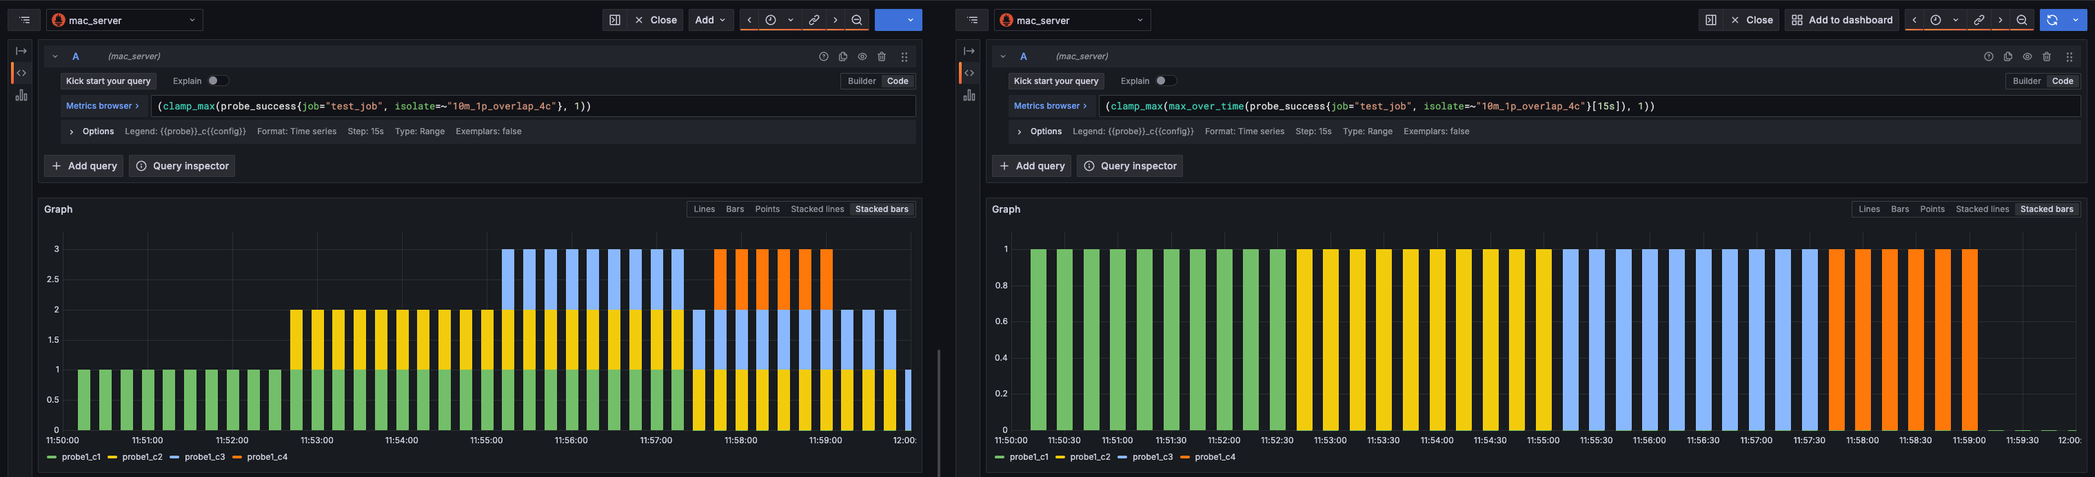
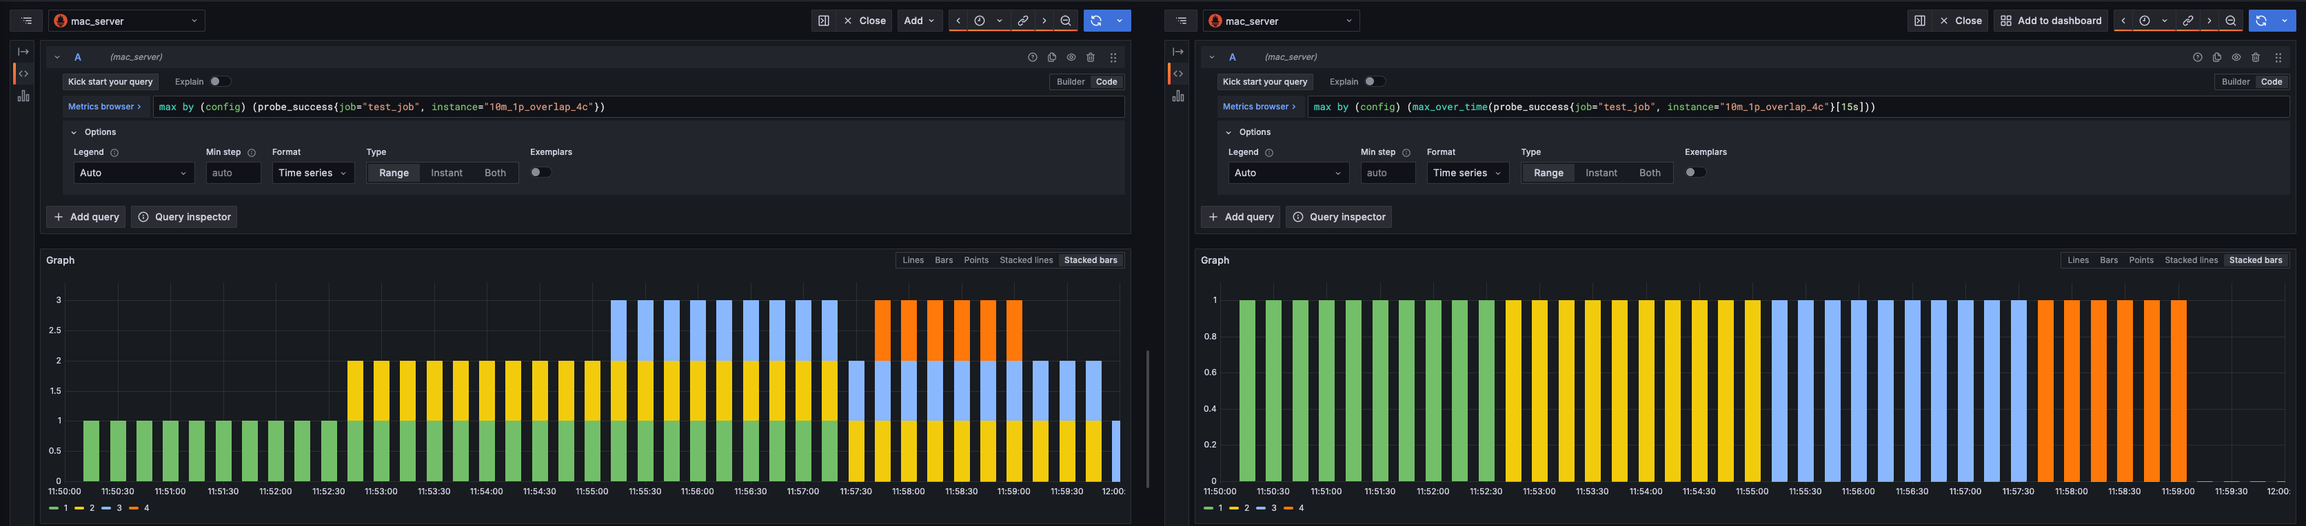
fix: updating uptime.md

diff --git a/docs/uptime/uptime.md b/docs/uptime/uptime.md
@@ -15,7 +15,7 @@ If uptime has any degree of inaccuracy, it can lead to a false sense of security
 
 When we consider all of these use cases, we have to cater for an accurate uptime metric for as little as a minute up to one year. This is a **huge** range of time periods and we need to be able to accurately calculate uptime for all of them.
 
-## A naive calculation
+## A simple calculation
 
 We calculate uptime as the percentage of successful time points in the requested time range that return a positive result. A simple way to express uptime is as follows:
 
@@ -40,7 +40,7 @@ Uptime = (3 successful time points / 4 total time points) * 100 = 75%
 The above calculation is a naive way to calculate uptime and doesn't take into account the nuance and multi-layered architecture of how we run checks and store data. The two big variables that we need to consider are:
 
 1. When does a time point start and end? How many probes reported a result for that time point?
-    - In an ideal world, if you had a probe running a check every 15 seconds they would each report their results at precisely the interval time. e.g. 12:00:15, 12:00:30, 12:00:45. However, in reality, probes won't always report their results at the same time. One probe might report at 12:00:15 but the second probe might report at 12:00:16. It could be as late as 12:00:29 or even 12:00:30, which would now be considered a new time point. Time point 1 would only have two probe execution results and time point 2 would have three (or possibly four...) probe execution results.
+    - In an ideal world, if you had a probe running a check every 15 seconds they would each report their results at precisely the interval time. e.g. 12:00:15, 12:00:30, 12:00:45. However, in reality, probes won't always report their results at the same time. One probe might report at 12:00:15 but the second probe might report at 12:00:16. It could be as late as 12:00:29 or even 12:00:30, which would now be considered a new time point. Time point 1 would only have two probe execution samples and time point 2 would have three (or possibly four...) probe execution samples.
 2. How large is the time period we are querying and how often is the check executing? Consider the following tables in how extreme the execution number can vary depending on the time period, check frequency and number of probes.
 
 | Time range | Check frequency | Number of probes | Executions  |
@@ -68,24 +68,13 @@ The above calculation is a naive way to calculate uptime and doesn't take into a
 
 4. It is not guaranteed that every check's results will end up in Mimir. The agent uses the HTTP remote write method and that is subject to the fickleness of the internet so some samples may be unintenionally dropped and go unreported. This is a comparatively small number but it is worth noting and will have a more magnifying effect at smaller time ranges.
 
-## A consideration for visualising uptime
-
-When we visualize uptime, we need to consider how we present the data to the user. We have two main ways of visualizing uptime:
-
-1. **Single stat panel**: It is a single number that represents the uptime percentage for the given time range. It is the most straightforward way to present the data but it doesn't give the user any insight into how that number was derived.
-
-2. **Graph**: It shows the underlying data that contributes to calculating the uptime percentage and correlates with the mental model of how Synthetic Monitoring operates: a plot point = a Synthetic Monitoring check.
-
-It is more complex to understand but gives the user a more in-depth view of how their endpoints were performing at any given time.
-
-
 ## How we collect and query data
 
 ![](./images/sm-architecture.png)
 
 [A more detailed explanation of the Synthetic Monitoring architecture in our on-call training. (Grafana Labs internal-only)](https://docs.google.com/presentation/d/1jWuv2VwVFIsdyXq4JQMlhmM6txHXLyHImYpnl50V5XQ/edit#slide=id.g308ff111cb5_0_35).
 
-Our architecture is multi-layered with many separate services. Please read the material above for an in-depth guide to how we collect and publish data. The most relevant part when considering uptime is: **we have multiple probes (which are effectively SM Agents) that run checks at regular intervals and report metric results to a Grafana Cloud Mimir instance and log results to a Grafana Cloud Loki instance.**
+Our architecture is multi-layered with many separate services. Please read the material above for an in-depth guide to how we collect and publish data. The most relevant part when considering uptime is: **we have multiple probes (which are effectively SM Agents) that run checks at regular intervals and report metric results to a Grafana Cloud Mimir instance and publishes a check execution's logs to a Grafana Cloud Loki instance.**
 
 Our agents report two time series metrics which are directly related to uptime:
 1. `probe_success` is a [Prometheus gauge metric](https://prometheus.io/docs/concepts/metric_types/#gauge). It can only have a value of 0 or 1. 0 represents an execution failure and 1 represents an execution success.
@@ -95,62 +84,68 @@ Our agents report two time series metrics which are directly related to uptime:
 
 Within the Synthetic Monitoring App we query the instance's default Cloud Mimir datasource using PromQL to calculate uptime.
 
-## How could we calculate uptime?
-
-There are two approaches we could take to calculating uptime:
-1. 
-
-
-
 ## How we calculate uptime with PromQL
 
 Taking into account all of the above, our uptime calculation is the following:
+
+Utilizing Mimir's `range_query` endpoint the expression is:
 
 ```
 max by () (max_over_time(probe_success{job="$job", instance="$instance"}[$frequencyInSeconds]))
 ```
 
-With the additional options:
+We also provide the range from the Grafana time picker and where appropriate we might set a `maxDataPoints` parameter to be as high as possible (8000 or so has proven effective) to increase the fidelity of the data when looking at large time periods.
 
-```
-maxDataPoints: 8000
-minInterval: $frequencyInSeconds
-```
-
-To explain the individual parts of the query, starting from the innermost part:
+To explain the individual parts of the query expression, starting from the innermost part:
 
 ### probe_success{job="$job", instance="$instance"}
 
-`probe_success` is a [Prometheus gauge metric](https://prometheus.io/docs/concepts/metric_types/#gauge) reported by each of our probes. It can only have a value of 0 or 1. 0 represents a failure and 1 represents a success. We add `job` and `instance` label filters as these two combined are how we uniquely identify a check. `probe` and `config_version` labels are also available on this metric but are not explicitly used in the uptime calculation. It is worth noting they exist on the metric because if we modify the base query we can end up with very different results depending on the scenario _[See the example below](#what-happens-if-we-remove-the-max_over_time-aggregation-from-the-query)_.
+`probe_success` is a [Prometheus gauge metric](https://prometheus.io/docs/concepts/metric_types/#gauge) reported by each of our probes. It can only have a value of 0 or 1, representing failure and success. We add `job` and `instance` label filters as these two combined are how we uniquely identify a check. `probe` and `config_version` labels are also available on this metric but are not explicitly used in the uptime calculation. It is worth noting they exist on the metric for two reasons:
+1. we want to collect all the probe samples, so don't want to discriminate against any of them.
+2. if we modify the base query we can end up with very different results depending on the scenario because of the config_version_[See the example below](#what-happens-if-we-remove-the-max_over_time-aggregation-from-the-query)_.
 
 ### max_over_time({{_metric_}}[$frequencyInSeconds])
 
 `max_over_time` is a [Prometheus aggregation function](https://prometheus.io/docs/prometheus/latest/querying/functions/#aggregation_over_time) that returns the maximum value of a metric over a given time range, in this case a check's frequency in seconds: `$frequencyInSeconds`.
 
-We use (`$frequencyInSeconds`) to determine what the 'look back' time should be (which gives us a 'time point'). For example, if the check is running every 15 seconds, the step would be 15 seconds. If the check is running every minute, the step would be 60 seconds.
+We use (`$frequencyInSeconds`) to determine what range-vector to use (e.g the 'look back' time) which gives us a 'time point'. For example, if the check is running every 15 seconds, the range-vector would be 15 seconds. If the check is running every minute, the range-vector would be 60 seconds.
 
 This function gives us two benefits in particular, one explicit and one implicit:
 
-1. __explicit__: we are telling Prometheus what the 'look-back' value is and what we consider a time point. Essentially, 'evaluate the entire time range in blocks of $frequencyInSeconds' and return the max value (e.g. 1 if it is successful) for each block. This allows groups of probes to report their results at any point during the time point and be considered a single point in time.
-2. __implicit__: this turns off Prometheus' assumed continuity of metrics. If we didn't use this function, Prometheus would assume that the metric is continuous and that there are no gaps in the data. This is not the case and often acts as a horrible assumption creating inaccurate results. _[See the example below](#what-happens-if-we-remove-the-max_over_time-aggregation-from-the-query)_
-
-## sum(...)
-
-Because of the `probe` label, we can have multiple results for a single time point. We sum all of the results for all probes given a time point to get a single result.
+1. __explicit__: we are telling Prometheus what range-vector to use so what we consider a time point. Essentially, 'evaluate the entire time range in blocks of $frequencyInSeconds' and return the max value for each block (e.g. 1 if it is successful). This allows the probes to report their results at any time during the start and end of the time point and be considered a single point in time.
+2. __implicit__: this removes Prometheus' assumed continuity of metrics (the value for the `--query.lookback-delta` which is provided [as a flag when the server is set-up](https://prometheus.io/docs/prometheus/latest/command-line/prometheus/#flags)). If we didn't use this function, Prometheus would assume that the metric is continuous and that there are no gaps in the data for 5 minutes after it stops reporting. This is not the case and often acts as a bad assumption leading to inaccurate results. _[See the example below](#what-happens-if-we-remove-the-max_over_time-aggregation-from-the-query)_
 
 ## max by() (...)
 
-Each assessment of uptime in a time point is a binary result: it is either 1 (success) or 0 (failure). In the previous step we sum all of the probe results for a given time point and in this step we 'clamp' the result to a maximum of 1. We only care if a time point is successful or not. If a time point has 3 successful probes, we still only want to count it as 1 successful time point (individual successes are represented by our reachability metric).
+Each assessment of uptime for a time point is a binary result: it is either 1 (success) or 0 (failure). In the previous step we gathered all of the unique samples for a given time point (usually by probe, but could also include differing configurations when the check is updated) and in this step we pick out the max value and discard the rest. We only care if a time point has a single success. If a time point has 3 successful samples, we still only want to count it as 1 successful time point (individual successes are represented by our reachability metric).
+
+## Visualising uptime
+
+When we visualize uptime, we need to consider how we present the data to the user. We have two main ways of visualizing uptime:
+
+**Single stat panel**: It is a single number that represents the uptime percentage for the given time range. It is the most straightforward way to present the data but it doesn't give the user any insight into how that number was derived.
+
+When displaying uptime as a single stat there are two important aspects to note:
+  1. we set the `maxDataPoints` option as high as possible to increase its fidelity for large time ranges.
+  2. We perform a client-side Grafana transformation to reduce each datapoint to a single value, it is essentially: `count successes / count total data points * 100` so it is viualised as a percentage.
+
+**Graph**: It shows the underlying data that contributes to calculating the uptime percentage and correlates with the mental model of how Synthetic Monitoring operates: a plot point = a Synthetic Monitoring check.
+
+It gives the user an in-depth view of how their checks were performing at any given time. We do no transformations on the data and it is presented as-is in a Grafana graph panel.
 
 ## Testing strategy
 
-We have a library where we can create a base set of Prometheus metrics across different common scenarios. This allows us to test our PromQL queries where we know precisely what the expected result should be as we have access to the underlying data to confirm without using PromQL to extract it (_a snake eating its own tail comes to mind..._). We can then modify the base query to see how it behaves in different scenarios and across different time periods and evaluate the results.
+We have a library where we can create a base set of Prometheus metrics across different common scenarios. This allows us to test our PromQL queries where we know precisely what the expected result should be as we have access to the underlying data used to populate the database.
+
+A core problem with datasets in Prometheus is you can only use PromQL to extract it. This means the only way to validate if our PromQL queries are correct is by writing more PromQL... (_a snake eating its own tail comes to mind_).
+
+When we know beforehand what the data is we've provided to Prometheus, we can validate the result using other means which aren't PromQL. We can now continually modify our PromQL queries with a goal in mind to see how it behaves in different scenarios and across different time periods and evaluate the results and assess what is best suited for our needs.
 
 There are two base-level assumptions each of the following scenarios has been run through:
 
 1. **The control group (in-phase)**: Every probe reports its result at exactly the check interval time (e.g. 12:00:15, 12:00:30, 12:00:45)
     - This is to simulate the ideal scenario where probes report their results at the same time and where we 'know' what the expected result should be to compare against.
-2. **The real-world group (out-of-phase)**: Every entry has a 1% chance to 'blip' and delay its reporting by up to 33% of the check's frequency time, which knocks onto the following time point.
+2. **The real-world group (out-of-phase)**: Every entry has a 1% chance to 'jitter' and delay its reporting by up to 33% of the check's frequency time, which knocks onto the following time point.
     - This is to _somewhat_ simulate the real-world scenario where probes don't report their results at the same time. It makes evaluation of what the expected result should be more difficult but using the control group as a comparison we can see how the query behaves in a more realistic scenario.
 
 There are four time periods that we have tested our uptime query against:
@@ -235,9 +230,9 @@ This means the uptime query has been assessed **240** times in total: 2 base ass
 | 20p_random        | 100%   | 100%   | 100%   | 99.96% |
 | 20p_shared_random | 100%   | 100%   | 99.42% | 99.34% |
 
-#### 'Accuracy' in the blip group.
+#### 'Accuracy' in the jitter group.
 
-_This is a more difficult metric to measure and interpret as the expected result is not precisely known but from extrapolation of the control group, and what we know a blip is likely to do we can see how the query behaves with more realistic real-life data._
+_This is a more difficult metric to measure and interpret as the expected result is not precisely known but from extrapolation of the control group, and what we know a jitter is likely to do we can see how the query behaves with more realistic real-life data._
 
 | Scenario          | 10m     | 3h      | 6M      | 1y      |
 |-------------------|---------|---------|---------| ------- |
@@ -262,7 +257,7 @@ __In phase probes__. A graph showing 40 time points, 20 of which are successful 
 When reduced in the stat panel, this shows a 50% uptime.
 
 ![](./images/out_of_phase_probes.png)
-__Out of phase probes__. A graph showing 40 time points, 30 of which have a successful result and 10 of which are failures. This is the more 'realistic' scenario with real world reporting because of the interaction between how agents start/restart and also how agents communicate with k6-runners for k6-powered checks. It is very likely for the probes to begin running the checks at different times ('out-of-phase') and increasingly become out of sync. Frankly, this is a feature rather than a bug as it ensures monitoring coverage is more comprehensive and a client's endpoints aren't receiving a barrage of requests at exactly the same time.
+__Out of phase probes__. A graph showing 40 time points, 30 of which have a successful result and 10 of which are failures. This is the more 'realistic' scenario with real world reporting because of the interaction between how agents start/restart and also how agents communicate with k6-runners for k6-powered checks. It is very likely for the probes to begin running the checks at different times ('out-of-phase') and increasingly become out of sync with 'jitters'. Frankly, this is a feature rather than a bug as it ensures monitoring coverage is more comprehensive and a client's endpoints aren't receiving a barrage of requests at exactly the same time.
 
 When reduced in the stat panel, this shows a 75% uptime -- which from the point of view of measuring uptime is correct. Across the 40 time points, 30 are successful and 10 are failures despite the heavy-skewing of certain time points reporting multiple successes versus some only reporting one or two successes. Because our testing strategy deliberately introduces this random aspect to it, it is impossible to accurately predict what the expected result should be (without evaluating the data in minute detail) but we are confident that the query is behaving as expected.
 
@@ -270,7 +265,7 @@ When reduced in the stat panel, this shows a 75% uptime -- which from the point 
 
 ![](./images/20p_accuracy.png)
 
-Uptime v3 showing 49.7% uptime for the `20p_shared_random` scenario. The underlying data has a 50% uptime so the result is only off by 0.3%, which is very impressive for a single query quickly evaluating 10,500,000 individual data points (525,000 minutes in a year x 20 probe results).
+Uptime v3 showing 49.7% uptime for the `20p_shared_random` scenario. The underlying data has a 50% uptime so the result is only off by 0.3%, which is very impressive for a single query quickly evaluating 10,500,000 individual data points (525,000 minutes in a year x 20 probe samples).
 
 Honestly, no idea - Prometheus Black magic is the only answer I can provide. I have gone over the whole testing process from start to finish with a fine tooth comb to understand if there is any fault in the underlying data that is generated, the backfill process and uploading to Prometheus but it is all correct.
 
@@ -288,28 +283,49 @@ Yes. They are saved in our 'Synthetics Dashboards reference' Google Sheet in the
 
 ### Why do we use range queries instead of instant queries for generating a single uptime metric?
 
+The answer to this is multi-faceted.
+
 Because we have the ability to transform the data on the client side within our Grafana plugin, we are able to use the more powerful and fully featured range queries that Prometheus provides. Despite we often show uptime as a reduced single stat panel, having the ability to show the underlying data in a graph how that single stat is derived is very powerful and helps users visualize it in a more meaningful way.
 
 A limitation we bypass using range queries is Mimir's 768-hour (32 days) time range limit for instant queries, meaning we can support more of the long-range use cases outlined at the top of this document.
 
-### Why don't we use the `probe_all_success` summary metrics?
-
-We use these metrics for alerting currently (subject to being reviewed in-depth). Previously we had been using this metric with the `increase` function to calculate uptime. Compare the results when utilizing our original V1 calculation to our V3 calculation in our simplest scenario, `1p_overlap` over 10 minutes:
-
-![](./images/v1_v3_comparison.png)
-
-The v1 query (bottom) shows both an incorrect single stat (94.9%) and a graph that shows a gradual increase in uptime at the beginning of the time period and a gradual decline at the end. Neither of these are correct and are a misleading interpretation of the underlying data. It is impossible to have a gradual slope in uptime: it is either a successful time point or it is not.
-
 ### What happens if we remove the `max_over_time` aggregation from the query?
 
-Prometheus has a feature where it has 'assumed continuity' of metrics. This means that if a metric is not reported for a given time point, Prometheus will assume that the metric is the same as the previous time point for the next five minutes before it stops reporting. For Synthetic Monitoring, this is a terrible assumption to make and can have a detrimental effect on the accuracy of our uptime calculation.
+Prometheus has a feature where it has 'assumed continuity' of metrics. The continuinity time is provided by the value for the feature flag `--query.lookback-delta` which is set [when the server is set-up](https://prometheus.io/docs/prometheus/latest/command-line/prometheus/#flags). This means that if a metric is not reported for a given time point, Prometheus will assume that the metric is the same as the previous time point for the length of time as decided by the feature flag before it stops reporting. For Synthetic Monitoring, this is a bad assumption to make and can have a detrimental effect on the accuracy of our uptime calculation.
 
-The most likely scenario for a metric to stop reporting results is when a check's configuration has been altered. This could be a change in frequency, the number of probes or the check's definition of uptime itself. The `config_version` changes to a nanosecond unix timestamp when the check's configuration changes and is the most likely time that uptime would be affected (i.e. accidentally introducing a flaw in their uptime definition).
+A likely scenario for collecting false positives would be down to user error when updating uptime definitions. Even if the newly configured check immediately starts reporting errors, they would be masked for five minutes because the previous `config_version` would be reporting its last known value (likely to be success) for the following five minutes.
 
 ![](./images/without_aggregation.png)
 
-In the example above, on the left is the query `(clamp_max(probe_success{job="$job", instance="$instance"}, 1))` versus `(clamp_max(max_over_time(probe_success{job="$job", instance="$instance"}[$frequencyInSeconds]), 1))` on the right. We can see every time point is considered successful in the left graph because of the assumed continuity of metrics and how `probe_success` results now overlap, even though it is impossible in our architecture. Turning off continuity of metrics is a must for our uptime calculation.
+In the example above, on the left is the query `max by(config) (probe_success{job="$job", instance="$instance"})` versus `max by(config) (max_over_time(probe_success{job="$job", instance="$instance"}[$frequencyInSeconds]))` on the right. We can see every time point is considered successful in the left graph because of the assumed continuity of metrics and how `probe_success` results now overlap, even though it is impossible in our architecture. Turning off continuity of metrics is a must for our uptime calculation.
 
 ### Do we take into account a change of frequency across the selected time period in our uptime calculation?
 
 No. This is currently a problem that we need to do a more thorough investigation into how to solve.
+
+### Why don't we use the `probe_all_success` summary metrics?
+
+Previously with the previous 2 versions we have explored for uptime we had been using the `probe_all_success` summary metric to calculate uptime.
+
+![](./images/versions_comparison.png)
+
+The image above shows a comparison of the three queries visualised as time series and reduced to a single stat panel for our simplest scenario `10m_1p_overlap`.
+
+Exploring the limitations when using the summary metric:
+
+1. Notice that the first data point is missing for V2 and V3 queries in their graph visualisations -- summary metrics work by looking at previous values so when it is the first in a series they can't infer their value so display nothing at all. This is the first reason why the single stat panel is displayed incorrectly, in this scenario it is using only 39 data points to calculate uptime from instead of 40.
+    - _This is a relatively minor limitation as it only applies to the very start when a check is first created but it is worth noting as there is a noticable delay when waiting for results to come in._
+
+2. Both V1 and V2 versions report the decrease in uptime at a later time point than the underlying data shows. V1 reports uptime 2 data points late and V2 reports it 1 data point late. If we explore in detail why this occurs:
+
+![](./images/versions_comparison_detail.png)
+
+The above image shows the individual parts of the query broken down and visualised. For the first time point where uptime has decreased, the increase value for `probe_all_success_sum` is reported as 2.67:
+- It calculates this by looking at the previous 1 minute of data (`$__rate_interval` = 15s (`$__interval`) x 4 (default)) and observing the increase in the first to present samples. In should be precisely 2 in this case but [Prometheus extrapolates](https://prometheus.io/docs/prometheus/latest/querying/functions/#increase) the time range either side slightly so we end up with 2.67.
+- As the increase for `probe_all_success_count` is 4, the calculation is 2.67 / 4 * 100 = 0.667%, the last step is rounding this to the cloest integer, which is 1 which indicates success which is incorrect.
+
+This 'off by one' reporting might be considered comparatively minor for this scenario where failures all appear in a row but if we look at a different scenario and apply the v2 query, it becomes more apparent how this level of inaccuracy can have a detrimental effect on the accuracy of the uptime calculation.
+
+![](./images/versions_comparison_hidden_failures.png)
+
+In the above image, V2 ignores failures that happen as one-off events - in this case if every third result was a failure they would all be hidden and we could be over-reporting uptime by 33.33%.
